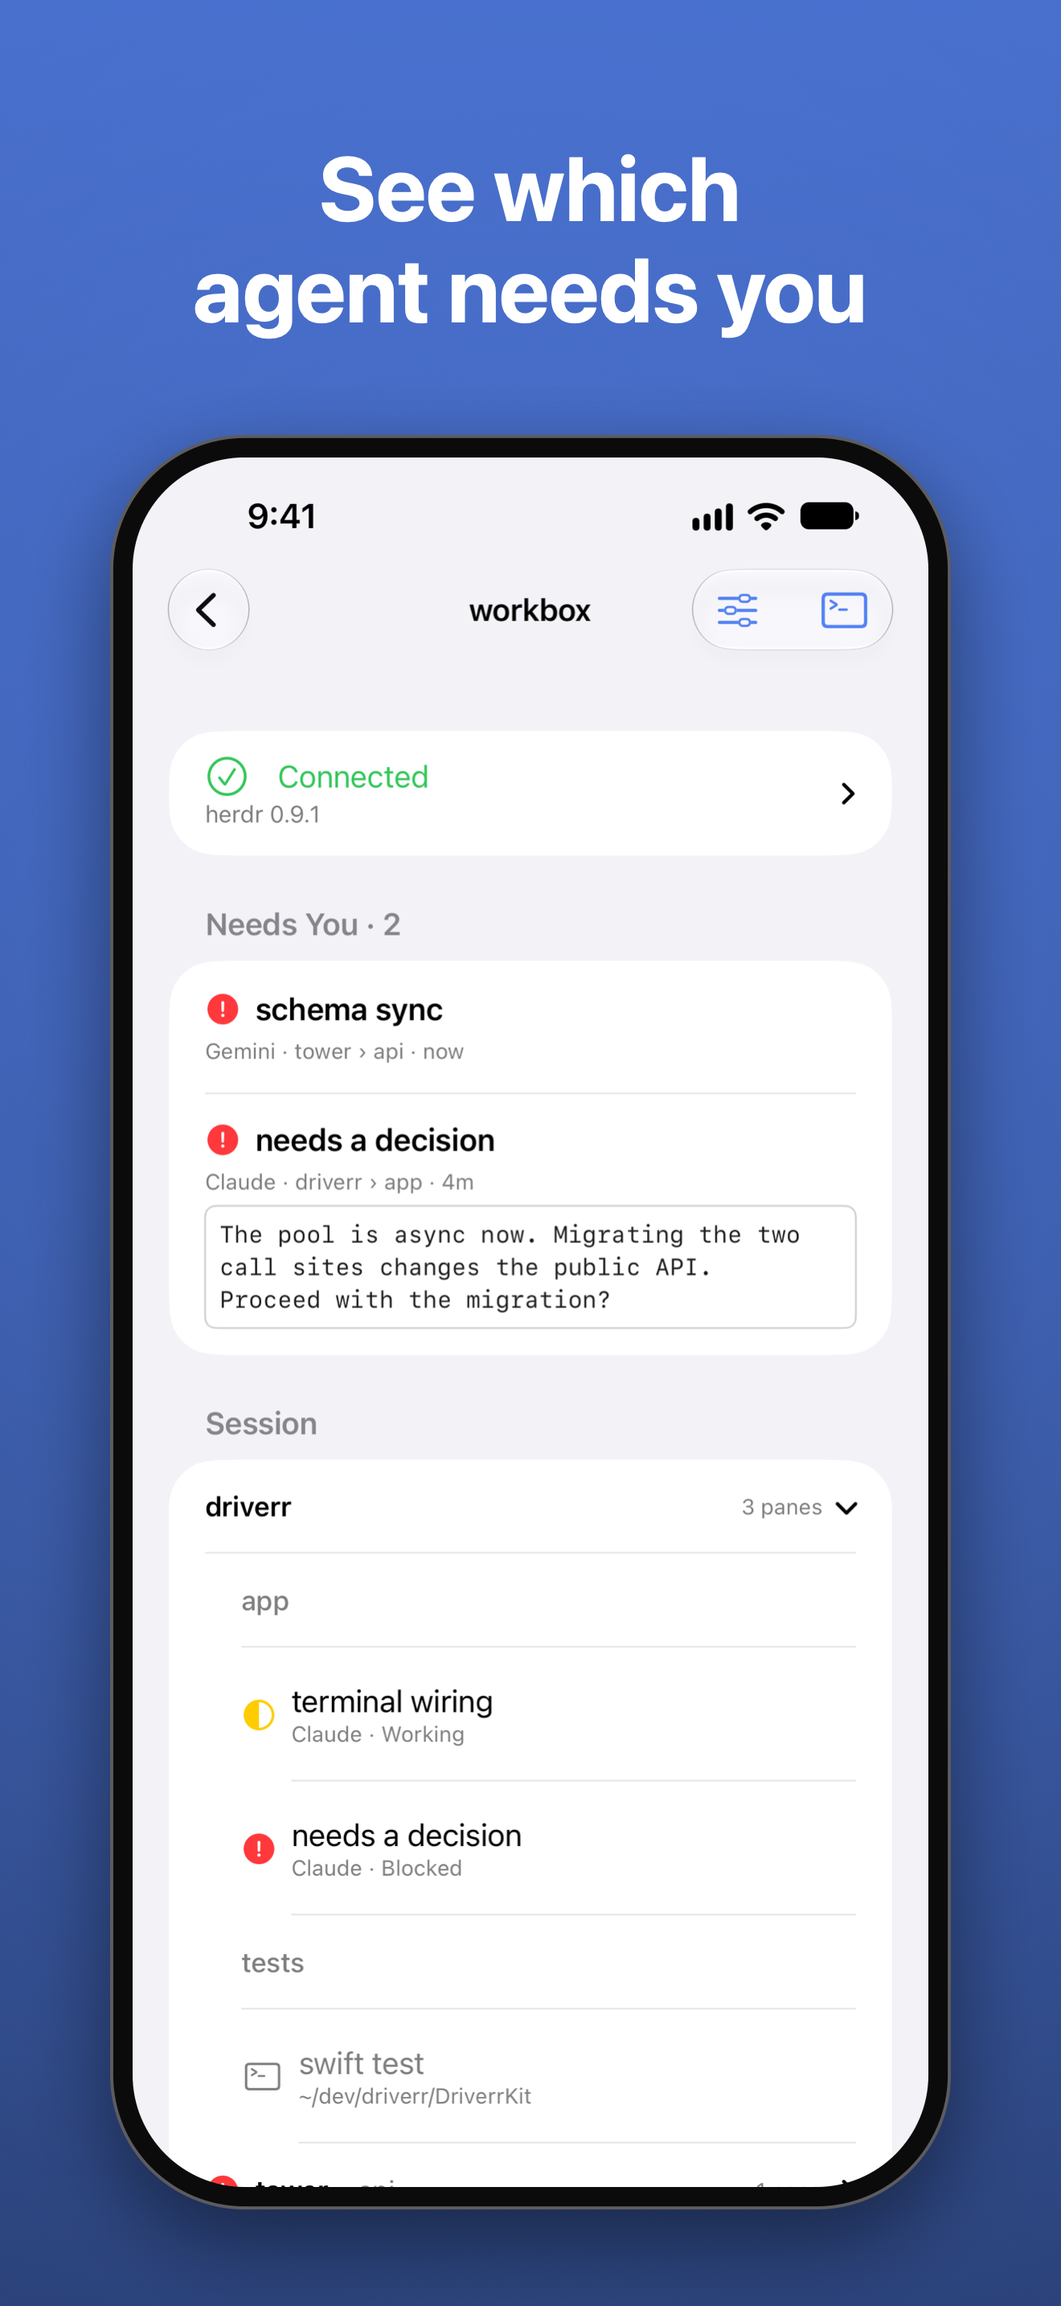
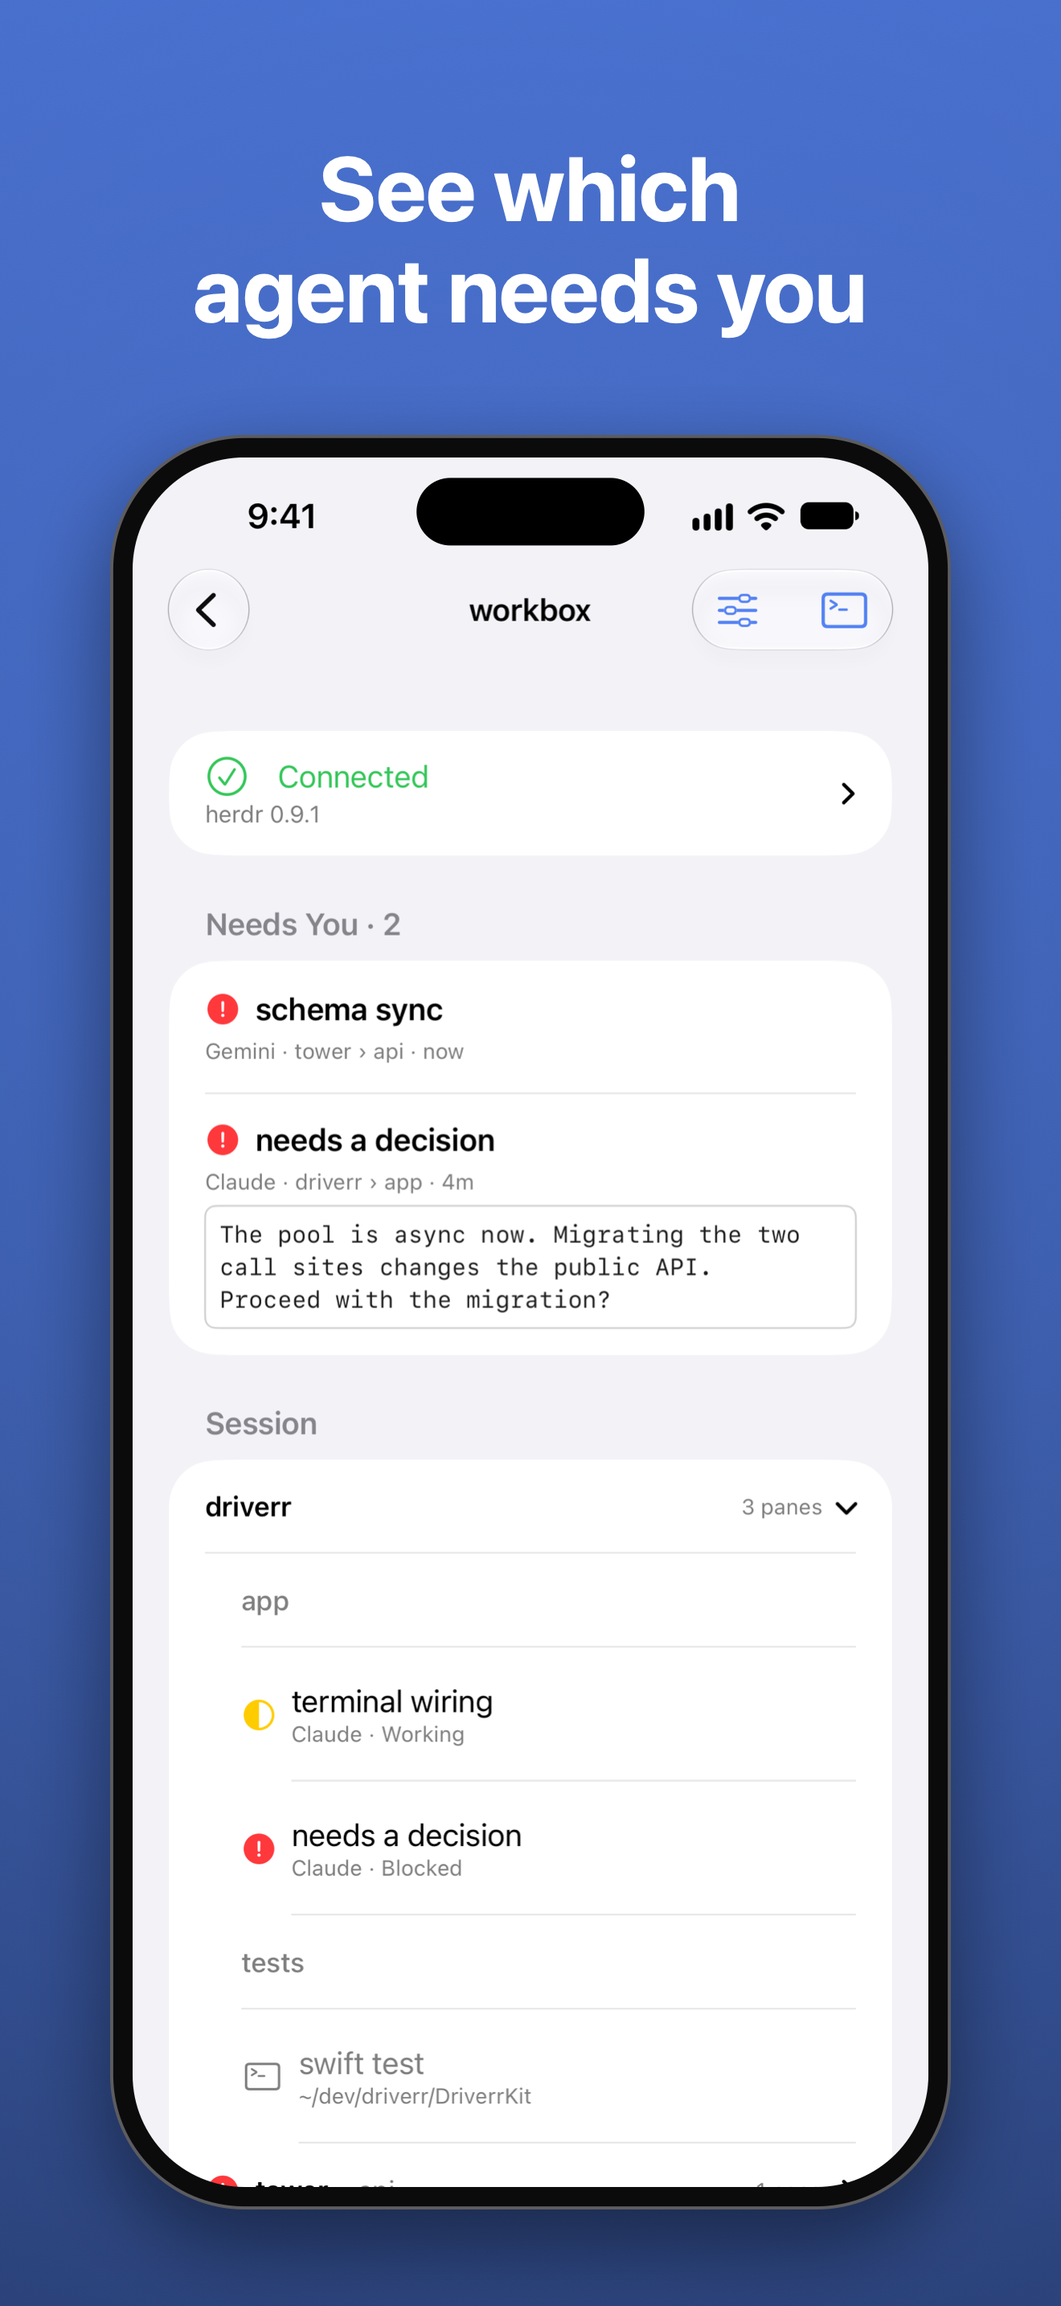
Answer the review of the framed store screenshots
Settings is captured last, with workbox connected, Dracula chosen and Font Size on
screen. The store tour's chat and terminal fixtures are longer, so the iPad chat
reaches the composer and the iPad terminal has no blank rows. The phone frame draws
the Dynamic Island. screenshots.sh stages every image and changes the tree only when
every step passed, counts the framed set against the framing script's own list, and
writes the header crops to .build-logs/header-crops instead of the repo.

Changed region(s): [[0.3727, 0.1862, 0.6212, 0.2483]]

diff --git a/scripts/frame-screenshots.swift b/scripts/frame-screenshots.swift
@@ -6,14 +6,15 @@
 //
 //   swift scripts/frame-screenshots.swift iphone-max <raw dir> <out dir>
 //   swift scripts/frame-screenshots.swift ipad       <raw dir> <out dir>
-//   swift scripts/frame-screenshots.swift header     <raw root> <out dir>
+//   swift scripts/frame-screenshots.swift header     <raw root> <out dir> [<crops dir>]
+//   swift scripts/frame-screenshots.swift --list     the published names, one per line
 //
 // `scripts/screenshots.sh` calls it after a tour, and `scripts/screenshots.sh --frame`
 // calls it on the committed raw captures without a tour.
 //
 // The app UI inside a frame is the capture, scaled and nothing else. App Review guideline
-// 2.3.3 requires that, so the background, the frame and the caption are the only things
-// drawn here.
+// 2.3.3 requires that, so the background, the frame, the phone's Dynamic Island and the
+// caption are the only things drawn here.
 //
 // CoreGraphics, CoreText and ImageIO only, so it runs on any Mac that builds the app.
 
@@ -55,6 +56,10 @@ struct Kind {
   /// 55 on the 13" iPad. Rounded up, because a clip smaller than the drawn corner leaves a
   /// sliver of the app's background between the keyboard and the frame.
   let screenRadius: CGFloat
+  /// The Dynamic Island in capture pixels, or nil for a device without one. The simulator
+  /// does not draw it, and the status bar leaves its place empty, so drawing it covers no
+  /// app UI.
+  let island: CGRect?
   /// The bezel's width in canvas pixels.
   let bezel: CGFloat
   let captionSize: CGFloat
@@ -67,10 +72,14 @@ struct Kind {
 let kinds: [String: Kind] = [
   "iphone-max": Kind(
     canvas: CGSize(width: 1320, height: 2868), capture: CGSize(width: 1320, height: 2868),
-    screenRadius: 186, bezel: 28, captionSize: 112, top: 170, gap: 120, bottom: 120),
+    screenRadius: 186,
+    // 126 by 37 points, 11 points from the top edge, at 3x.
+    island: CGRect(x: 471, y: 34, width: 378, height: 112),
+    bezel: 28, captionSize: 112, top: 170, gap: 120, bottom: 120),
   "ipad": Kind(
     canvas: CGSize(width: 2064, height: 2752), capture: CGSize(width: 2064, height: 2752),
-    screenRadius: 60, bezel: 40, captionSize: 132, top: 160, gap: 120, bottom: 130),
+    screenRadius: 60, island: nil, bezel: 40, captionSize: 132, top: 160, gap: 120,
+    bottom: 130),
 ]
 
 /// The header fills both the product page header and the search results, and Apple crops
@@ -251,6 +260,16 @@ func drawDevice(
       transform: nil))
   context.clip()
   context.draw(capture, in: screen)
+  if let island = kind.island {
+    let pill = CGRect(
+      x: screen.minX + island.minX * scale, y: screen.maxY - island.maxY * scale,
+      width: island.width * scale, height: island.height * scale)
+    context.addPath(
+      CGPath(roundedRect: pill, cornerWidth: pill.height / 2, cornerHeight: pill.height / 2,
+        transform: nil))
+    context.setFillColor(CGColor(srgbRed: 0, green: 0, blue: 0, alpha: 1))
+    context.fillPath()
+  }
   context.restoreGState()
   return outer
 }
@@ -399,7 +418,7 @@ func frameSet(_ name: String, kind: Kind, raw: URL, out: URL) {
   }
 }
 
-func frameHeader(rawRoot: URL, out: URL) {
+func frameHeader(rawRoot: URL, out: URL, crops: URL?) {
   let context = canvas(headerSize)
   drawBackground(context)
   let (w, h) = (headerSize.width, headerSize.height)
@@ -440,7 +459,10 @@ func frameHeader(rawRoot: URL, out: URL) {
   writePNG(image, to: out.appendingPathComponent("header.png"))
   print("header: header.png \"\(headerPhrase)\"")
 
-  // The crops are checking aids: what the product page and search results keep.
+  // The crops are checking aids: what the product page and search results keep. They are
+  // redrawn on every run, so they are written outside the store directories.
+  guard let crops else { return }
+  try? FileManager.default.createDirectory(at: crops, withIntermediateDirectories: true)
   for crop in headerCrops {
     let keep: CGSize =
       w / h > crop.aspect.width / crop.aspect.height
@@ -452,20 +474,27 @@ func frameHeader(rawRoot: URL, out: URL) {
         width: keep.width.rounded(), height: keep.height.rounded()))!
     let scaled = canvas(crop.out)
     scaled.draw(cut, in: CGRect(origin: .zero, size: crop.out))
-    writePNG(scaled.makeImage()!, to: out.appendingPathComponent("\(crop.name).png"))
+    writePNG(scaled.makeImage()!, to: crops.appendingPathComponent("\(crop.name).png"))
     print("header: \(crop.name).png")
   }
 }
 
 // MARK: - Main
 
-let arguments = CommandLine.arguments.dropFirst()
-guard arguments.count == 3 else {
-  fail("usage: frame-screenshots.swift iphone-max|ipad|header <raw dir> <out dir>")
+let arguments = Array(CommandLine.arguments.dropFirst())
+if arguments == ["--list"] {
+  for shot in published { print(shot.stem) }
+  exit(0)
 }
-let job = arguments[arguments.startIndex]
-let raw = URL(fileURLWithPath: arguments[arguments.startIndex + 1])
-let out = URL(fileURLWithPath: arguments[arguments.startIndex + 2])
+guard arguments.count == 3 || (arguments.count == 4 && arguments[0] == "header") else {
+  fail(
+    "usage: frame-screenshots.swift iphone-max|ipad <raw dir> <out dir>, "
+      + "header <raw root> <out dir> [<crops dir>], or --list")
+}
+let job = arguments[0]
+let raw = URL(fileURLWithPath: arguments[1])
+let out = URL(fileURLWithPath: arguments[2])
+let crops = arguments.count == 4 ? URL(fileURLWithPath: arguments[3]) : nil
 try? FileManager.default.createDirectory(at: out, withIntermediateDirectories: true)
 print(
   String(
@@ -474,7 +503,7 @@ print(
     Int(backgroundBottom.r * 255), Int(backgroundBottom.g * 255), Int(backgroundBottom.b * 255),
     backgroundTop.contrast(with: white)))
 switch job {
-case "header": frameHeader(rawRoot: raw, out: out)
+case "header": frameHeader(rawRoot: raw, out: out, crops: crops)
 default:
   guard let kind = kinds[job] else { fail("unknown kind '\(job)' (iphone-max|ipad|header)") }
   frameSet(job, kind: kind, raw: raw, out: out)

diff --git a/DriverrUITests/ScreenshotTourUITests.swift b/DriverrUITests/ScreenshotTourUITests.swift
@@ -162,18 +162,50 @@ final class ScreenshotTourUITests: XCTestCase {
     usleep(700_000)
   }
 
-  /// Scrolls forward until `identifier` exists, up to five swipes.
+  /// Scrolls `form` until `identifier`'s bottom edge rests a little above the form's bottom
+  /// edge, so it is the last thing on screen and nothing below it is.
   ///
-  /// The preview is the form's first section, but a small form sheet or a later layout
-  /// change could put it below the fold.
-  @discardableResult
-  private func scrollTo(_ app: XCUIApplication, _ identifier: String) -> XCUIElement {
-    let match = element(app, identifier)
+  /// By slow drags that hold before they lift, because a swipe flings the form to its end.
+  /// Each drag is measured again, because the drag's first points are spent recognising it.
+  /// A form builds its rows lazily, so a row below the fold may not exist yet, and the first
+  /// drag is then half the form's height.
+  private func scroll(
+    _ form: XCUIElement,
+    toRest identifier: String,
+    in app: XCUIApplication,
+    file: StaticString = #filePath,
+    line: UInt = #line
+  ) {
+    let target = element(app, identifier)
+    let bounds = form.frame
+    // The row's bottom edge is wanted between these two.
+    let lowest = bounds.maxY - 24
+    let highest = bounds.maxY - 120
     for _ in 0..<5 {
-      if match.exists { return match }
-      app.swipeUp()
+      let distance: CGFloat
+      if target.exists {
+        let bottom = target.frame.maxY
+        if bottom <= lowest && bottom >= highest { return }
+        distance = bottom - (lowest + highest) / 2
+      } else {
+        distance = bounds.height / 2
+      }
+      // Up for a positive distance, down for a negative one, inside the form either way.
+      let travel = min(abs(distance), bounds.height - 80)
+      // From the app, with the form's frame read once, because the row that found the form
+      // can scroll out of the tree.
+      let low = app.coordinate(withNormalizedOffset: .zero)
+        .withOffset(CGVector(dx: bounds.midX, dy: bounds.maxY - 40))
+      let high = low.withOffset(CGVector(dx: 0, dy: -travel))
+      let (from, to) = distance > 0 ? (low, high) : (high, low)
+      from.press(forDuration: 0.1, thenDragTo: to, withVelocity: .slow, thenHoldForDuration: 0.4)
     }
-    return match
+    XCTFail(
+      "'\(identifier)' did not come to rest at the bottom of the form, it is at "
+        + "\(target.frame) in \(bounds).\nTree was:\n\(app.debugDescription)",
+      file: file,
+      line: line
+    )
   }
 
   /// Whether the host list is on screen beside the connected host's screen, which is the
@@ -235,23 +267,6 @@ final class ScreenshotTourUITests: XCTestCase {
 
     // Seeded, because an empty list shows nothing.
     require(app, "hosts.row", "Expected the seeded host")
-
-    // Settings is captured first, because it opens from the host list. Through a retry,
-    // because this tap sometimes fails to open the sheet, and a failed tour costs a full slow
-    // re-run.
-    tapUntil(
-      app,
-      opening: "hosts.overflow",
-      tap: "settings.open",
-      opens: "settings.preview",
-      "settings"
-    )
-    // The shot shows the preview beside the theme rows, so make sure it is on screen.
-    scrollTo(app, "settings.preview")
-
-    settle(app)
-    capture("settings")
-    require(app, "settings.done", "Expected a way out of settings").tap()
 
     // The session, with a blocked agent lifted to the top. Connected by hand.
     require(app, "hosts.row", "Expected the seeded host").tap()
@@ -322,5 +337,34 @@ final class ScreenshotTourUITests: XCTestCase {
     // Dismiss the menu without choosing anything, and leave the terminal tidy.
     app.tap()
     leavePaneScene(app, "Expected a way out of the terminal")
+
+    // Settings, last, because it changes the theme, and the theme tints every screen after
+    // it. Settings live in memory under `-uiTesting`, so the next launch starts on System
+    // again. From the host list, with workbox connected, so the list behind the sheet agrees
+    // with the shots before it. Through a retry, because this tap sometimes fails to open the
+    // sheet, and a failed tour costs a full slow re-run.
+    if !showsTheHostListBesideTheHost(app) { returnToHostList(app) }
+    tapUntil(
+      app,
+      opening: "hosts.overflow",
+      tap: "settings.open",
+      opens: "settings.preview",
+      "settings"
+    )
+    // Scrolled down to Font Size, which the caption names, so the shot holds the lower theme
+    // rows, the fonts and the size. Dracula, because its row is on screen there and its
+    // purple accent shows the choice took effect.
+    let form = app.collectionViews.containing(.any, identifier: "settings.theme.system").firstMatch
+    scroll(form, toRest: "settings.fontsize.value", in: app)
+    let dracula = require(app, "settings.theme.dracula", "Expected the Dracula theme row")
+    XCTAssertTrue(
+      dracula.isHittable,
+      "The Dracula row is not on screen, so the shot would not show a chosen theme. Tree was:\n"
+        + app.debugDescription
+    )
+    dracula.tap()
+    settle(app)
+    capture("settings")
+    require(app, "settings.done", "Expected a way out of settings").tap()
   }
 }

diff --git a/Driverr/AppEnvironment.swift b/Driverr/AppEnvironment.swift
@@ -850,7 +850,8 @@ struct AppEnvironment {
     return hosts
   }
 
-  /// The hosts the store tour lists under workbox, so `01-hosts` is a list and not one row.
+  /// The hosts the store tour lists under workbox, so its `hosts` capture is a list and not
+  /// one row.
   /// Never connected: they have no password and no host key.
   static let storeTourHosts: [DriverrCore.Host] = [
     DriverrCore.Host(
@@ -1229,11 +1230,12 @@ struct AppEnvironment {
     isStoreTour ? storeTourTranscript : seededTranscript
   }
 
-  /// The conversation the store tour's chat shows: `seededTranscript` with a shorter first
-  /// reply and one more call, which waits for an answer.
+  /// The conversation the store tour's chat shows: `seededTranscript` with three more turns
+  /// before a shorter reply, and one more call, which waits for an answer.
   ///
-  /// The reply is shorter so a phone shows its opening line above the code with the keyboard
-  /// up. The waiting call is the edit `demoTranscript` ends on asking about. `w1:p2` is
+  /// The added turns are there so the iPad's chat reaches the composer. With the keyboard
+  /// down it is about twice the phone's height, and the seeded conversation filled two
+  /// thirds of it. The waiting call is the edit `demoTranscript` ends on asking about. `w1:p2` is
   /// `blocked`, so the chat draws Approve and Deny under it, and they send the `y` and `n`
   /// the terminal's `(y/n)` takes.
   ///
@@ -1247,6 +1249,24 @@ struct AppEnvironment {
       sessionID: "3f8c1d20-0000-4000-8000-000000000002",
       turns: Array(seeded.prefix(2))
         + [
+          .init(
+            speaker: .assistant,
+            text: """
+              The pool holds a mutex across every checkout, so `acquire` blocks the runtime \
+              under load. Making it async changes `open_session` too, and two handlers call \
+              that.
+              """,
+            secondsAgo: 450
+          ),
+          .init(speaker: .human, text: "go ahead, and keep the tests passing", secondsAgo: 420),
+          .init(
+            speaker: .tools([
+              ToolCall(name: "Edit", target: "pool.rs"),
+              ToolCall(name: "Bash", target: "cargo test"),
+              ToolCall(name: "Read", target: "routes/session.rs"),
+            ]),
+            secondsAgo: 360
+          ),
           .init(
             speaker: .assistant,
             text: """
@@ -2603,9 +2623,10 @@ struct AppEnvironment {
   /// A plausible agent session, sized to fill a terminal on both store devices.
   ///
   /// Every line is under 48 columns, because the 6.9-inch portrait terminal is 55 wide and a
-  /// wrapped line looks like a bug. It is longer than an iPhone frame, because the iPad shows
-  /// about 52 rows against 28, and a terminal shows its tail, so both devices end on the same
-  /// lines. It ends on a question, which is what the app is about.
+  /// wrapped line looks like a bug. It is longer than either device's terminal with the
+  /// keyboard down, because the iPad then shows about 68 rows and the phone about 44, and a
+  /// terminal shows its tail, so both devices end on the same lines with no blank rows under
+  /// them. It ends on a question, which is what the app is about.
   static let demoTranscript = [
     "carson@workbox:~/api$ herdr attach api-refactor",
     "[herdr] attached to pane 3 (claude)",
@@ -2620,6 +2641,21 @@ struct AppEnvironment {
     "● Reading src/db/pool.rs",
     "  Pool::open_session is the only sync entry",
     "  point left in the module.",
+    "",
+    "● Reading src/db/config.rs",
+    "  max_connections = 16, idle_timeout = 30s",
+    "",
+    "● Grep \"spawn_blocking\" (2 files)",
+    "  src/db/pool.rs:41",
+    "  src/jobs/cleanup.rs:19",
+    "",
+    "● Reading src/jobs/cleanup.rs",
+    "  The cleanup job holds a connection across",
+    "  a sleep. It can use the async pool as is.",
+    "",
+    "● Reading src/routes/health.rs",
+    "  The health check pings the pool directly.",
+    "  It already awaits.",
     "",
     "● Ran tests: 41 passed, 0 failed",
     "  Baseline is green.",
@@ -2637,13 +2673,26 @@ struct AppEnvironment {
     "  -  pub fn open_session(&self)",
     "  +  pub async fn open_session(&self)",
     "",
+    "● Edited src/jobs/cleanup.rs",
+    "  -  let conn = pool.get()?;",
+    "  +  let conn = pool.acquire().await;",
+    "",
     "● cargo check",
     "   Compiling driverr-api v0.4.1",
     "    Finished dev [unoptimized] in 4.21s",
     "",
+    "● cargo clippy",
+    "    Checking driverr-api v0.4.1",
+    "    Finished dev [unoptimized] in 2.87s",
+    "  No warnings.",
+    "",
     "● Ran tests: 39 passed, 2 failed",
     "  session::opens_a_session",
     "  session::rejects_a_bad_token",
+    "",
+    "● Reading tests/session.rs",
+    "  Both failures call open_session from a",
+    "  sync test. They need #[tokio::test].",
     "",
     "● The pool is async now. Migrating the two",
     "  call sites changes the public API.",

diff --git a/DriverrTests/StoreTourSeedTests.swift b/DriverrTests/StoreTourSeedTests.swift
@@ -67,7 +67,7 @@ struct StoreTourSeedTests {
     #expect(pending.first?.asksItsOwnQuestions == false)
 
     // The Needs-you row quotes the last words, and `SessionTreeUITests` matches these two lines
-    // on the ordinary seed. The tour says the same thing in `02-needs-you`.
+    // on the ordinary seed. The tour says the same thing in its `needs-you` capture.
     let lastWords = tour.last { $0.speaker.isAssistantWords }?.text
     let seededWords = turns(AppEnvironment.seededTranscript).last?.text
     #expect(lastWords == seededWords)

diff --git a/CLAUDE.md b/CLAUDE.md
@@ -346,14 +346,16 @@ The release procedure lives outside this repo. These are only the facts about th
   nothing in a store directory may be a raw capture, because the count check and the
   upload read those directories. Regenerate with `scripts/screenshots.sh`, which checks the
   raw captures' sizes and count per kind, frames them, and checks the framed set's sizes,
-  count and alpha. It shuts each device down and boots it before the tour, and it fails
-  the phone set if a capture draws the home indicator (`scripts/home-indicator.sh`).
+  count and alpha, and it changes nothing in the tree unless every step passed. It shuts
+  each device down and boots it before the tour, and it fails the phone set if a capture
+  draws the home indicator (`scripts/home-indicator.sh`).
   `scripts/screenshots.sh --frame` frames the committed captures again with no tour. They
   upload in filename order. Both sets are `01-` to `05-` and start with Needs You. The
   phone's `raw/iphone-max/hosts.png` is captured and not published.
 - **The product page header** is `docs/app-store-assets/header/header.png`, drawn by the
-  same script and uploaded by hand. `crop-21x9.png` and `crop-3x2.png` beside it show what
-  the header and search results keep after Apple's centre crop; they are not uploaded.
+  same script and uploaded by hand. Each run also writes `.build-logs/header-crops/`, which
+  shows what the header and search results keep after Apple's centre crop. The crops are
+  not committed.
 - Before a release, the full UI suite on both simulators and the clean warnings sweep are
   worth running.
 
